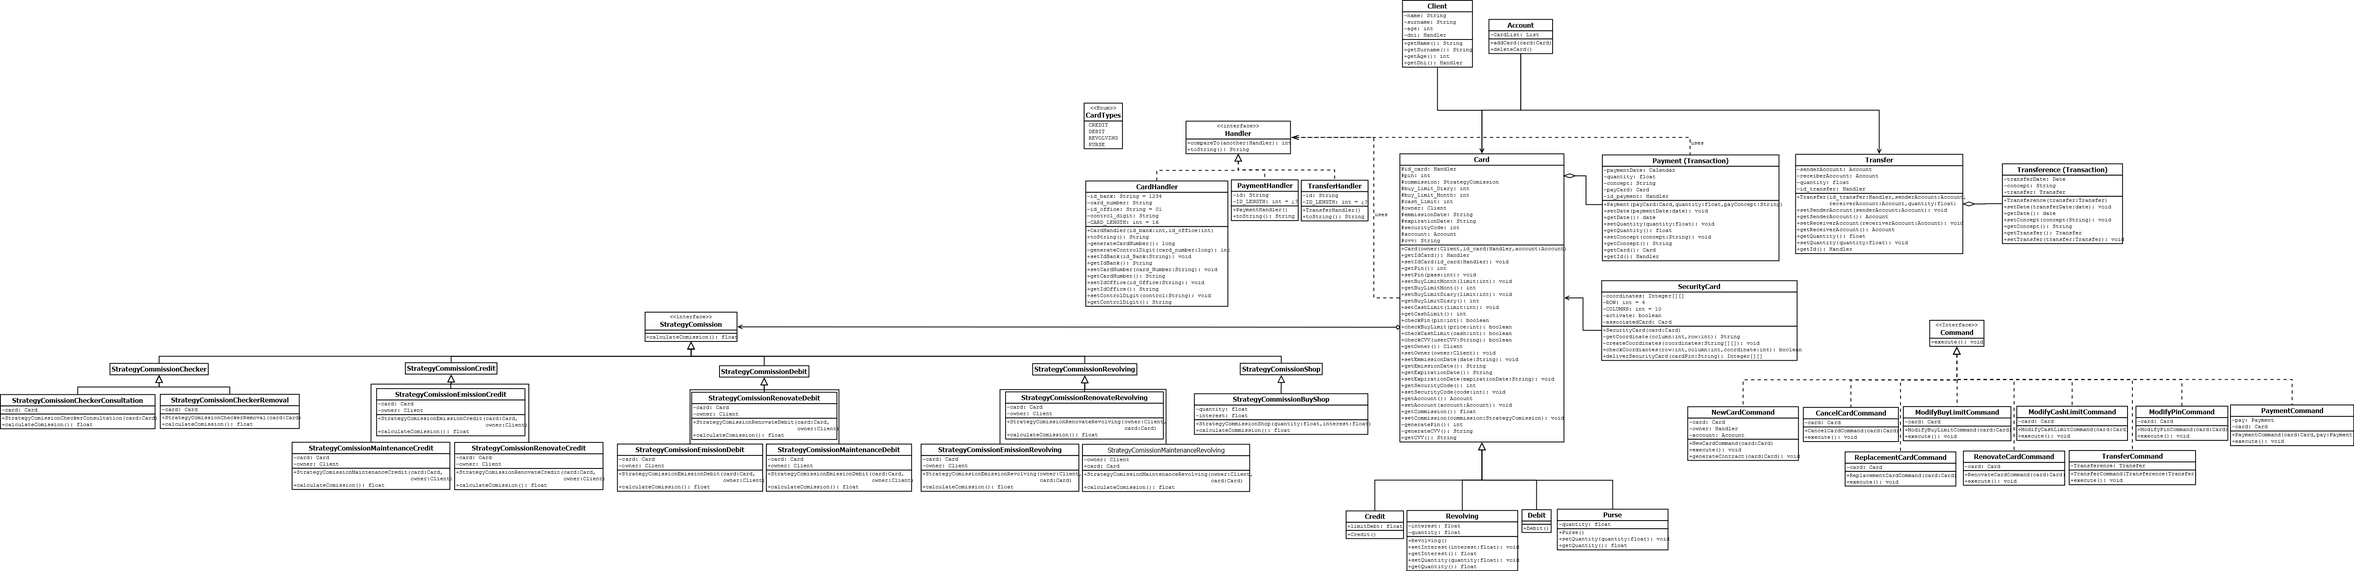
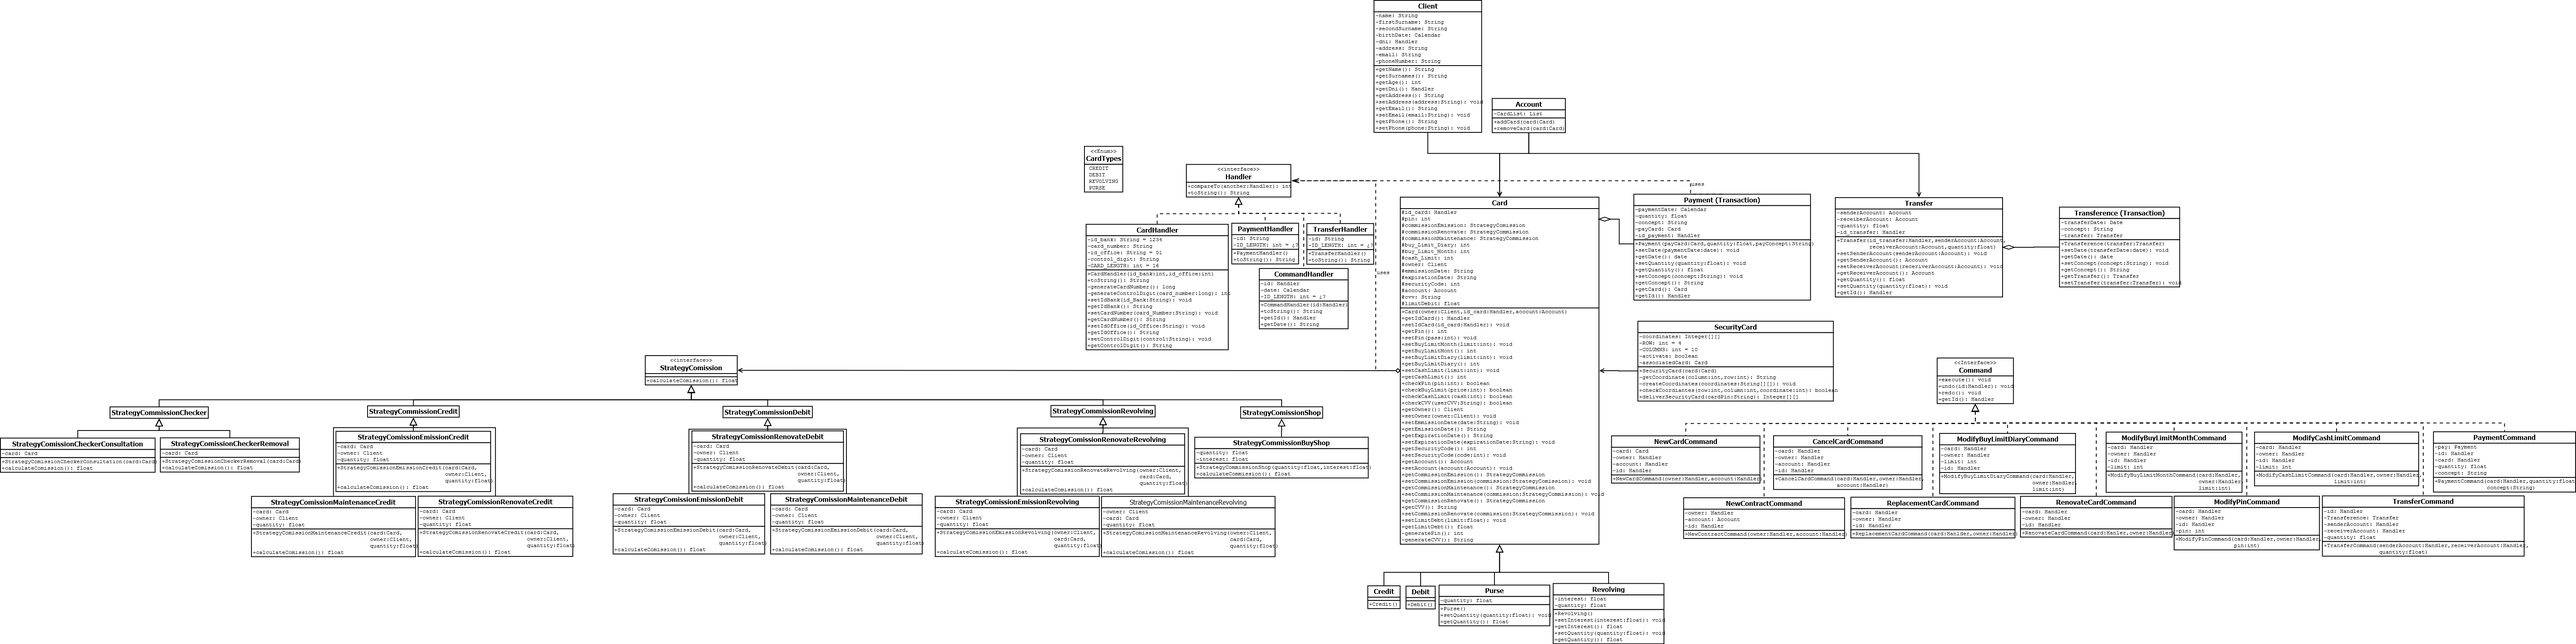
Añadido CommandHandler, corregidas comisiones, actualizado UML

diff --git a/ULE-Bank/src/es/unileon/ulebank/strategy/StrategyCommissionDebitMaintenance.java b/ULE-Bank/src/es/unileon/ulebank/strategy/StrategyCommissionDebitMaintenance.java
@@ -11,20 +11,30 @@ import es.unileon.ulebank.payments.Card;
  */
 public class StrategyCommissionDebitMaintenance implements StrategyCommissionDebit {
 
-	/*private Client owner;
+	//private Client owner;
 	private Card card;
+	private float quantity;
+	private final int MAXIMUM_AGE = 26;
+	private final float DEFAULT_COMMISSION = 15;
 	
-	public StrategyCommissionDebitMaintenance(Client owner, Card card){
+	/**
+	 * Class constructor
+	 * @param owner
+	 * @param card
+	 * @param quantity
+	 */
+	public StrategyCommissionDebitMaintenance(/*Client owner,*/ Card card, float quantity){
 		this.card = card;
-		this.owner = owner;
-	}*/
+		//this.owner = owner;
+		this.quantity = quantity;
+	}
 
 	@Override
 	public float calculateCommission() {
-		/*if (this.owner.getAge() > 26)
-			return 15;
+		/*if (this.owner.getAge() >= this.MAXIMUM_AGE)
+			return this.DEFAULT_COMMISSION + this.quantity;
 		else*/
-			return 0;
+			return this.quantity;
 	}
 
 }

diff --git a/ULE-Bank/src/es/unileon/ulebank/handler/CommandHandler.java b/ULE-Bank/src/es/unileon/ulebank/handler/CommandHandler.java
@@ -1,0 +1,46 @@
+package es.unileon.ulebank.handler;
+
+import java.util.Calendar;
+
+/**
+ * CommandHandler class
+ * @author Rober dCR
+ * @date 9/04/2014
+ * @brief Class of the identifier for Commands
+ */
+public class CommandHandler implements Handler {
+
+	private Handler id;
+	private Calendar date;
+	
+	/**
+	 * Class constructor
+	 * @param id
+	 */
+	public CommandHandler(Handler id){
+		this.id = id;
+		this.date = Calendar.getInstance();
+	}
+	
+	@Override
+	public int compareTo(Handler another) {
+		// TODO Auto-generated method stub
+		return 0;
+	}
+	
+	/**
+	 * Getter id
+	 * @return id
+	 */
+	public Handler getId(){
+		return this.id;
+	}
+
+	/**
+	 * Getter date
+	 * @return date
+	 */
+	public String getDate(){
+		return this.date.toString();
+	}
+}

diff --git a/ULE-Bank/src/es/unileon/ulebank/strategy/StrategyCommissionCreditEmission.java b/ULE-Bank/src/es/unileon/ulebank/strategy/StrategyCommissionCreditEmission.java
@@ -11,17 +11,25 @@ import es.unileon.ulebank.payments.Card;
  */
 public class StrategyCommissionCreditEmission implements StrategyCommissionCredit {
 
-	/*private Client owner;
+	//private Client owner;
 	private Card card;
-	
-	public StrategyCommissionCreditEmission(Client owner, Card card){
+	private float quantity;
+	private final float DEFAULT_COMMISSION = 0;
+	/**
+	 * Class constructor
+	 * @param owner
+	 * @param card
+	 * @param quantity
+	 */
+	public StrategyCommissionCreditEmission(/*Client owner, */Card card, float quantity){
 		this.card = card;
-		this.owner = owner;
-	}*/
+		//this.owner = owner;
+		this.quantity = quantity;
+	}
 	
 	@Override
 	public float calculateCommission() {
-		return 0;
+		return this.DEFAULT_COMMISSION + this.quantity;
 	}
 
 

diff --git a/ULE-Bank/src/es/unileon/ulebank/strategy/StrategyCommissionCreditRenovate.java b/ULE-Bank/src/es/unileon/ulebank/strategy/StrategyCommissionCreditRenovate.java
@@ -12,17 +12,26 @@ import es.unileon.ulebank.payments.Card;
 
 public class StrategyCommissionCreditRenovate implements StrategyCommissionCredit {
 
-	/*private Client owner;
+	//private Client owner;
 	private Card card;
+	private float quantity;
+	private final float DEFAULT_COMMISSION = 30;
 	
-	public StrategyCommissionCreditRenovate(Client owner, Card card){
+	/**
+	 * Class constructor
+	 * @param owner
+	 * @param card
+	 * @param quantity
+	 */
+	public StrategyCommissionCreditRenovate(/*Client owner,*/ Card card, float quantity){
 		this.card = card;
-		this.owner = owner;
-	}*/
+		//this.owner = owner;
+		this.quantity = quantity;
+	}
 
 	@Override
 	public float calculateCommission() {
-		return 30;
+		return this.DEFAULT_COMMISSION + this.quantity;
 	}
 
 }

diff --git a/ULE-Bank/src/es/unileon/ulebank/strategy/StrategyCommissionDebitRenovate.java b/ULE-Bank/src/es/unileon/ulebank/strategy/StrategyCommissionDebitRenovate.java
@@ -10,17 +10,26 @@ import es.unileon.ulebank.payments.Card;
  */
 public class StrategyCommissionDebitRenovate implements StrategyCommissionDebit {
 
-	/*private Client owner;
+	//private Client owner;
 	private Card card;
+	private float quantity;
+	private final float DEFAULT_COMMISSION = 20;
 	
-	public StrategyCommissionDebitRenovate(Client owner, Card card){
+	/**
+	 * Class constructor
+	 * @param owner
+	 * @param card
+	 * @param quantity
+	 */
+	public StrategyCommissionDebitRenovate(/*Client owner,*/ Card card, float quantity){
 		this.card = card;
-		this.owner = owner;
-	}*/
+		//this.owner = owner;
+		this.quantity = quantity;
+	}
 	
 	@Override
 	public float calculateCommission() {
-		return 20;
+		return this.DEFAULT_COMMISSION + this.quantity;
 	}
 
 	

diff --git a/ULE-Bank/src/es/unileon/ulebank/strategy/StrategyCommissionDebitEmission.java b/ULE-Bank/src/es/unileon/ulebank/strategy/StrategyCommissionDebitEmission.java
@@ -11,17 +11,26 @@ import es.unileon.ulebank.payments.Card;
  */
 public class StrategyCommissionDebitEmission implements StrategyCommissionDebit {
 
-	/*private Client owner;
+	//private Client owner;
 	private Card card;
+	private float quantity;
+	private final float DEFAULT_COMMISSION = 0;
 	
-	public StrategyCommissionDebitEmission(Client owner, Card card){
+	/**
+	 * Class constructor
+	 * @param owner
+	 * @param card
+	 * @param quantity
+	 */
+	public StrategyCommissionDebitEmission(/*Client owner,*/ Card card, float quantity){
 		this.card = card;
-		this.owner = owner;
-	}*/
+		//this.owner = owner;
+		this.quantity = quantity;
+	}
 
 	@Override
 	public float calculateCommission() {
-		return 0;
+		return this.DEFAULT_COMMISSION + this.quantity;
 	}
 
 }

diff --git a/ULE-Bank/src/es/unileon/ulebank/strategy/StrategyCommissionCreditMaintenance.java b/ULE-Bank/src/es/unileon/ulebank/strategy/StrategyCommissionCreditMaintenance.java
@@ -11,17 +11,25 @@ import es.unileon.ulebank.payments.Card;
  */
 public class StrategyCommissionCreditMaintenance implements StrategyCommissionCredit {
 
-	/*private Client owner;
+	//private Client owner;
 	private Card card;
+	private float quantity;
+	private final float DEFAULT_COMMISSION = 25;
 	
-	public StrategyCommissionCreditMaintenance(Client owner, Card card){
+	/**
+	 * Class constructor
+	 * @param card
+	 * @param quantity
+	 */
+	public StrategyCommissionCreditMaintenance(/*Client owner,*/ Card card, float quantity){
 		this.card = card;
-		this.owner = owner;
-	}*/
+		//this.owner = owner;
+		this.quantity = quantity;
+	}
 
 	@Override
 	public float calculateCommission() {
-		return 25;
+		return this.DEFAULT_COMMISSION + this.quantity;
 	}
 
 

diff --git a/ULE-Bank/src/es/unileon/ulebank/strategy/StrategyCommissionRevolvingMaintenance.java b/ULE-Bank/src/es/unileon/ulebank/strategy/StrategyCommissionRevolvingMaintenance.java
@@ -12,16 +12,24 @@ import es.unileon.ulebank.payments.Card;
 public class StrategyCommissionRevolvingMaintenance implements
 		StrategyCommissionRevolving {
 
-	/*private Client owner;
+	//private Client owner;
 	private Card card;
+	private float quantity;
 	
-	public StrategyCommissionRevolvingMaintenance(Client owner, Card card){
+	/**
+	 * Class constructor
+	 * @param owner
+	 * @param card
+	 * @param quantity
+	 */
+	public StrategyCommissionRevolvingMaintenance(/*Client owner,*/ Card card, float quantity){
 		this.card = card;
-		this.owner = owner;
-	}*/
+		//this.owner = owner;
+		this.quantity = quantity;
+	}
 	
 	@Override
 	public float calculateCommission() {
-		return 0;
+		return this.quantity;
 	}
 }

diff --git a/ULE-Bank/src/es/unileon/ulebank/strategy/StrategyCommissionRevolvingEmission.java b/ULE-Bank/src/es/unileon/ulebank/strategy/StrategyCommissionRevolvingEmission.java
@@ -11,17 +11,25 @@ import es.unileon.ulebank.payments.Card;
  */
 public class StrategyCommissionRevolvingEmission implements StrategyCommissionRevolving {
 
-	/*private Client owner;
+	//private Client owner;
 	private Card card;
+	private float quantity;
 	
-	public StrategyCommissionRevolvingEmission(Client owner, Card card){
+	/**
+	 * Class constructor
+	 * @param owner
+	 * @param card
+	 * @param quantity
+	 */
+	public StrategyCommissionRevolvingEmission(/*Client owner,*/ Card card, float quantity){
 		this.card = card;
-		this.owner = owner;
-	}*/
+		//this.owner = owner;
+		this.quantity = quantity;
+	}
 
 	@Override
 	public float calculateCommission() {
-		return 0;
+		return this.quantity;
 	}
 	
 }

diff --git a/ULE-Bank/src/es/unileon/ulebank/strategy/StrategyCommissionRevolvingRenovate.java b/ULE-Bank/src/es/unileon/ulebank/strategy/StrategyCommissionRevolvingRenovate.java
@@ -11,17 +11,25 @@ import es.unileon.ulebank.payments.Card;
  */
 public class StrategyCommissionRevolvingRenovate implements StrategyCommissionRevolving {
 
-	/*private Client owner;
+	//private Client owner;
 	private Card card;
+	private float quantity;
 	
-	public StrategyCommissionRevolvingRenovate(Client owner, Card card){
+	/**
+	 * Class constructor
+	 * @param owner
+	 * @param card
+	 * @param quantity
+	 */
+	public StrategyCommissionRevolvingRenovate(/*Client owner,*/ Card card, float quantity){
 		this.card = card;
-		this.owner = owner;
-	}*/
+		//this.owner = owner;
+		this.quantity = quantity;
+	}
 	
 	@Override
 	public float calculateCommission() {
-		return 0;
+		return this.quantity;
 	}
 
 

diff --git a/ULE-Bank/src/es/unileon/ulebank/payments/SecurityCard.java b/ULE-Bank/src/es/unileon/ulebank/payments/SecurityCard.java
@@ -14,8 +14,8 @@ import es.unileon.ulebank.exceptions.SecurityCardException;
 public class SecurityCard {
 
 	private boolean activate; //Value that indicates if the SecurityCard is given to the owner
-	private int ROW = 4;
-	private int COLUMNS = 10;
+	private final int ROW = 4;
+	private final int COLUMNS = 10;
 	private Integer[][] coordinates;
 	private Card associatedCard; //Card which owns this security card
 	
